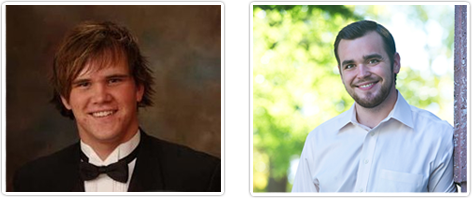
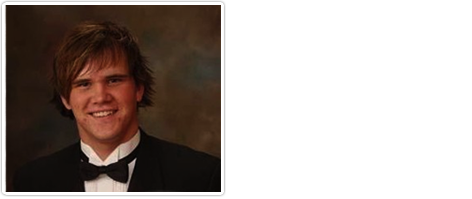
mentor pic updated

diff --git a/index.html b/index.html
@@ -146,7 +146,7 @@
 					</div>
 					
 					<div class="right">
-						<!--<img src="images/mentors.png" alt="Mentors">-->
+						<img src="images/mentors.png" alt="Mentors">
 					</div>
 				
 				</div>

diff --git a/dream.html b/dream.html
@@ -92,7 +92,7 @@
 					</div>
 					
 					<div class="right">
-						<!--<img src="images/mentors.png" alt="Mentors">-->
+						<img src="images/mentors.png" alt="Mentors">
 					</div>
 				
 				</div>
